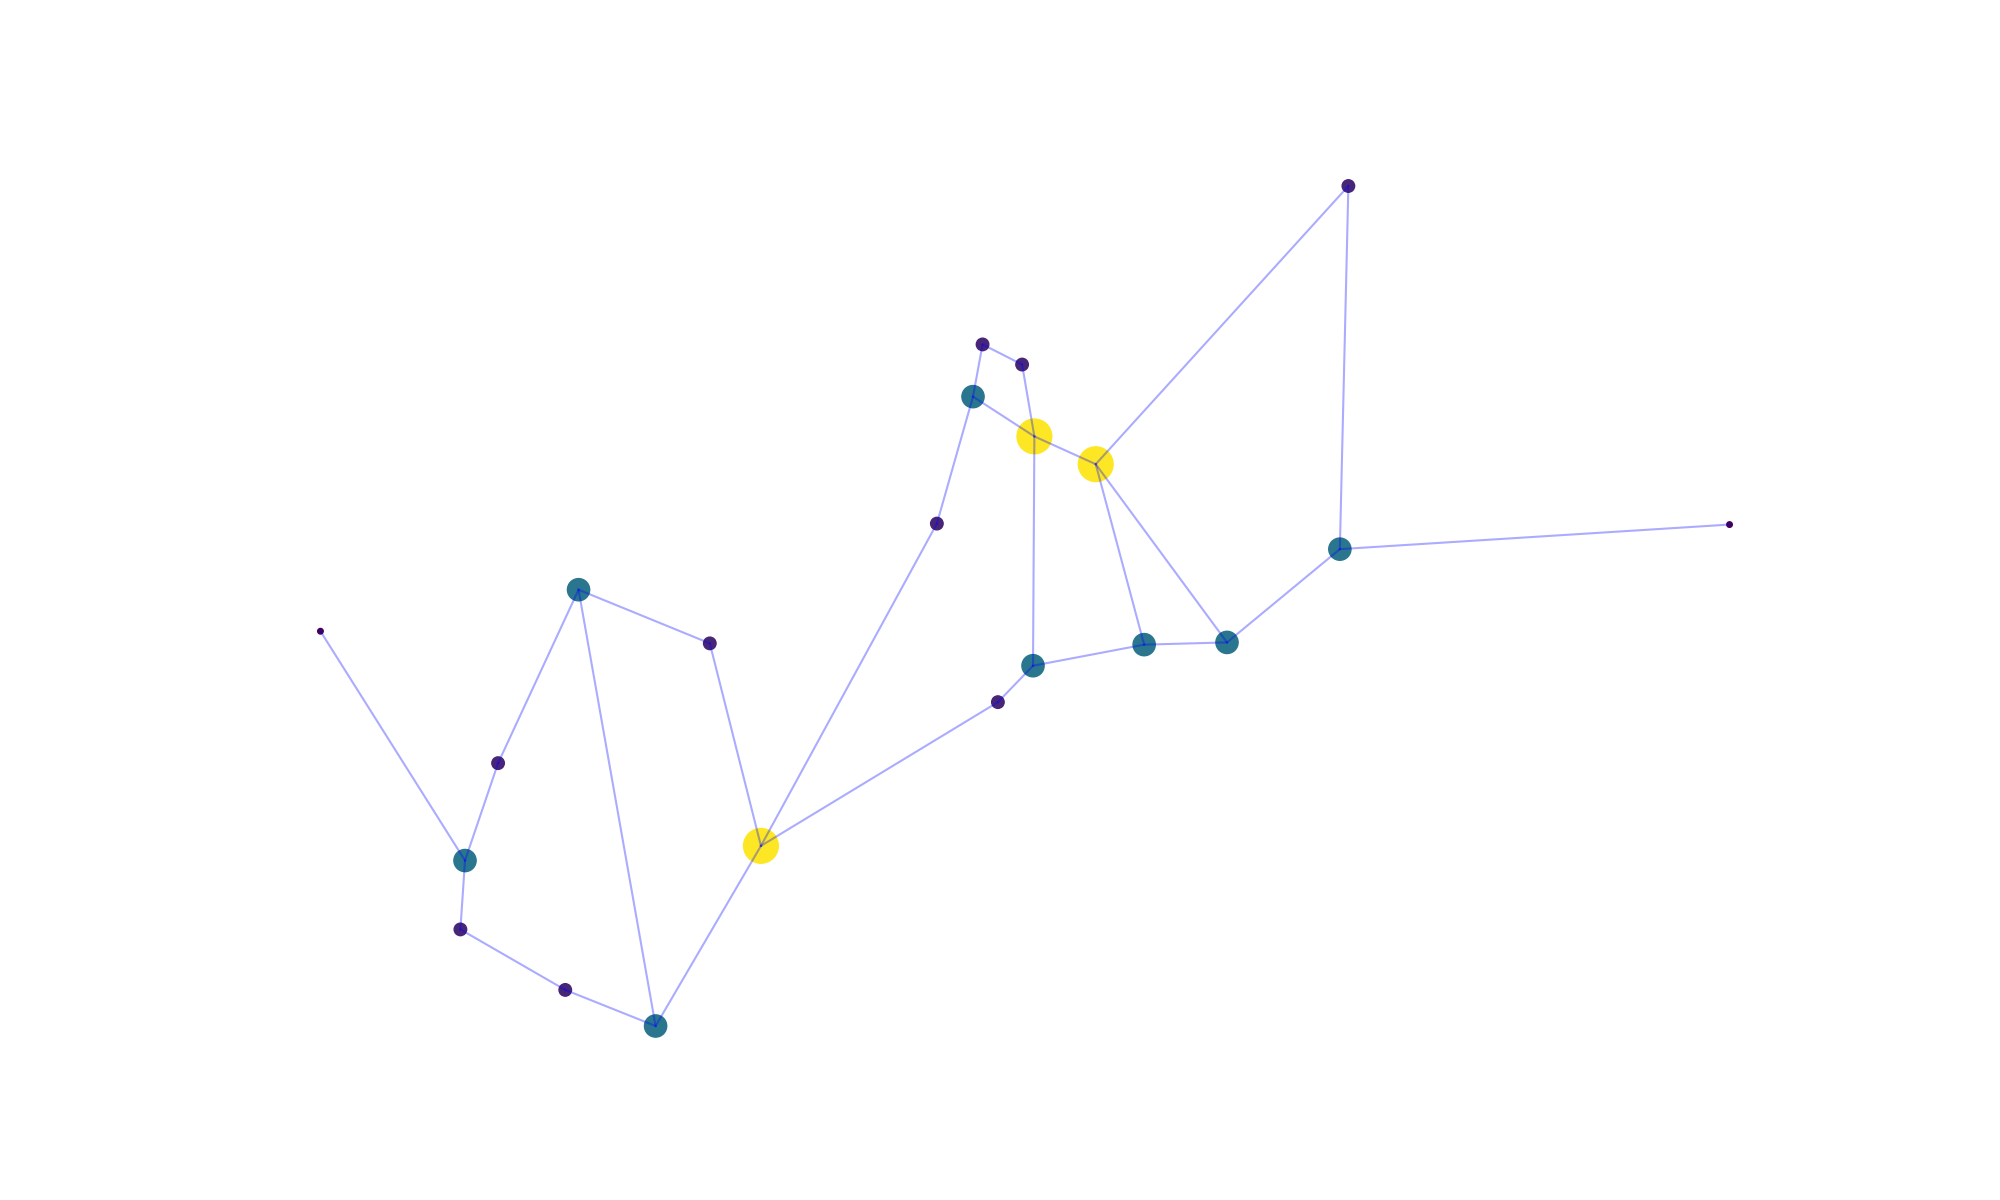
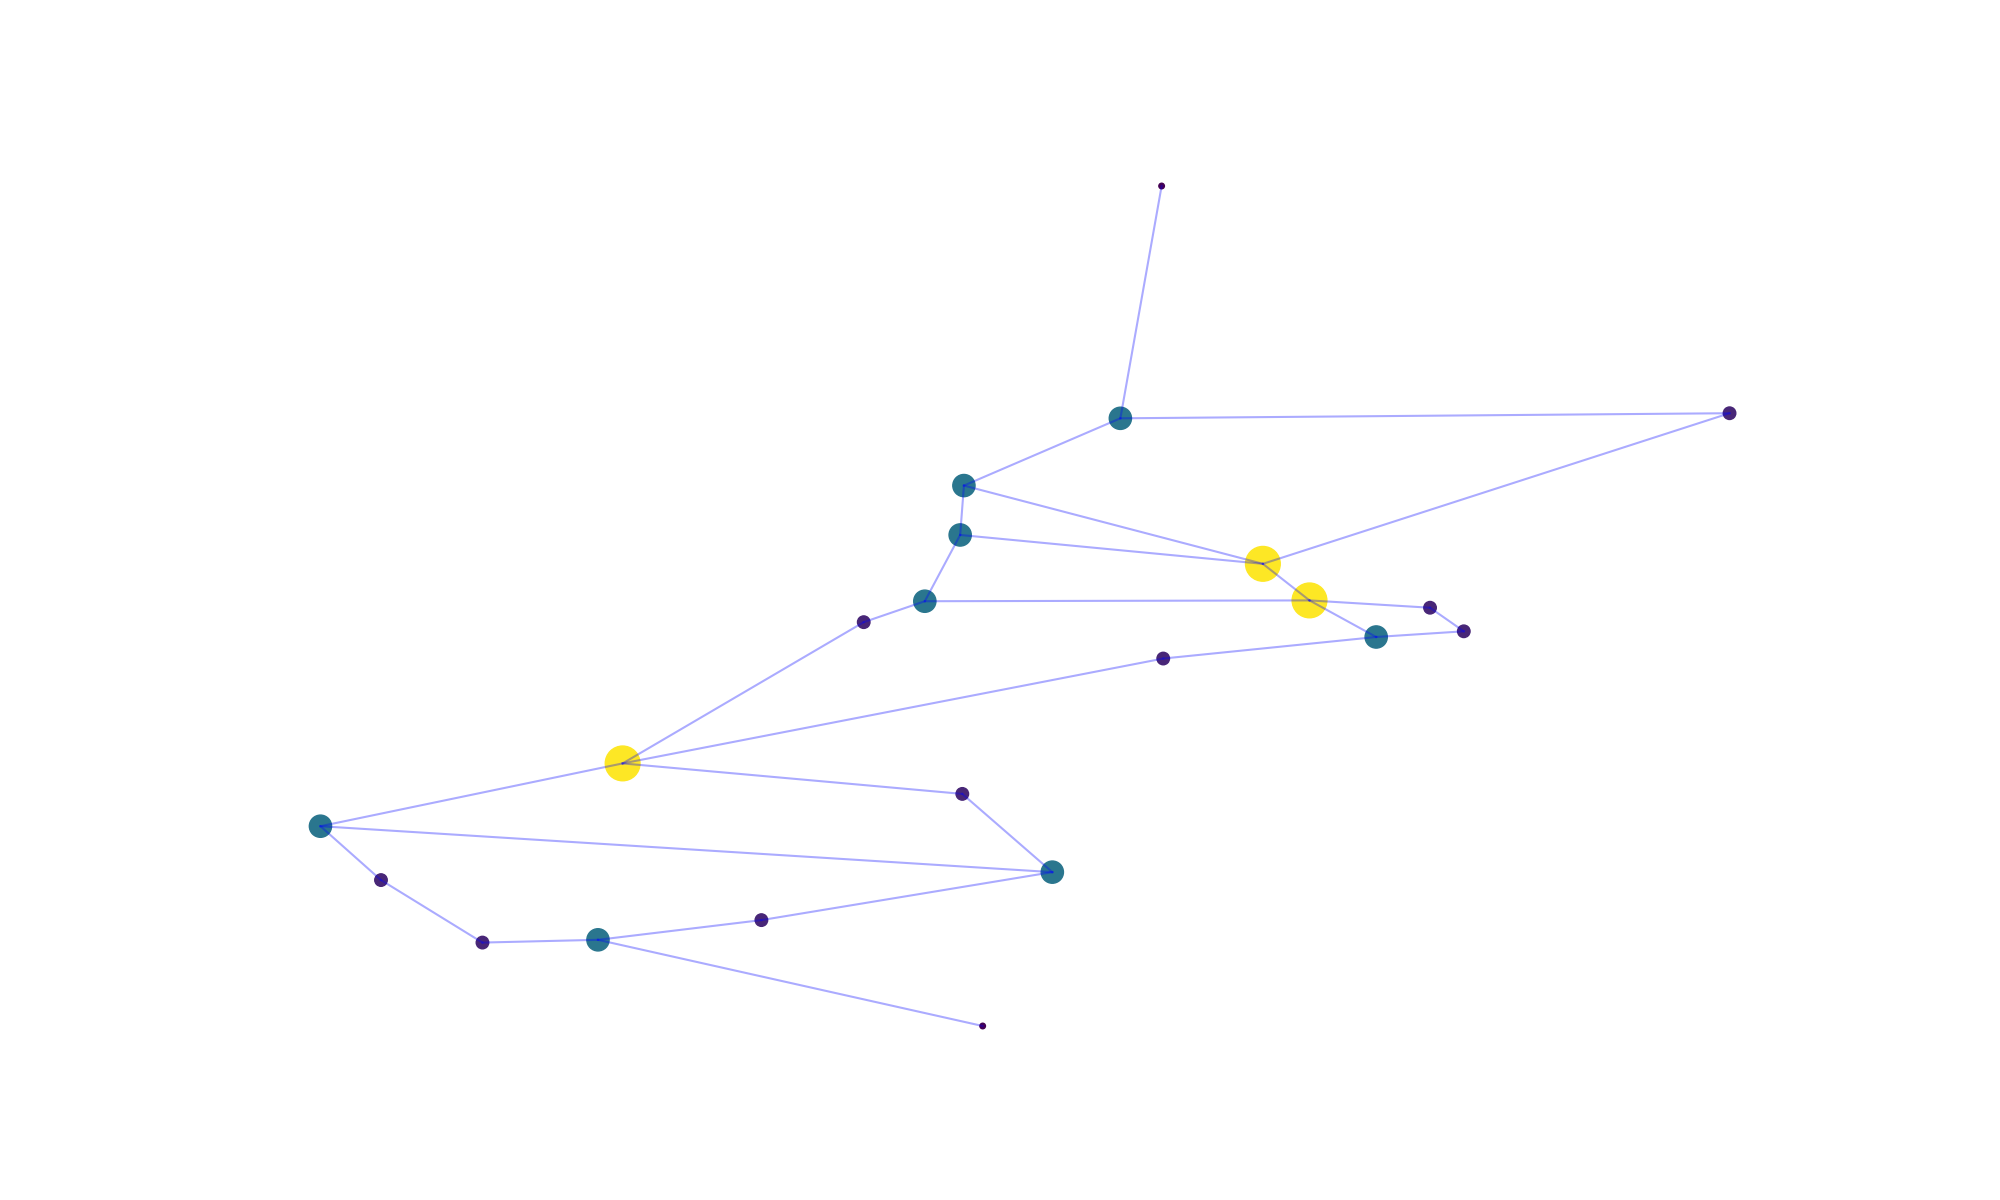
switched x and y

diff --git a/visual.py b/visual.py
@@ -18,11 +18,11 @@ with open(f"data/StationsHolland.txt") as f:
         # set the different parts of the line to its variable
         station = str(parts[0])
         try:
-            x_coord = float(parts[1])
+            y_coord = float(parts[1])
         except(IndexError):
             break
         try:
-            y_coord = float(parts[2].strip("\n"))
+            x_coord = float(parts[2].strip("\n"))
         except(IndexError):
             break
 
@@ -85,3 +85,5 @@ for line in connections:
 plt.axis('off')
 plt.savefig("visual_representation.png")
 plt.show()
+
+print(size_of_station)
